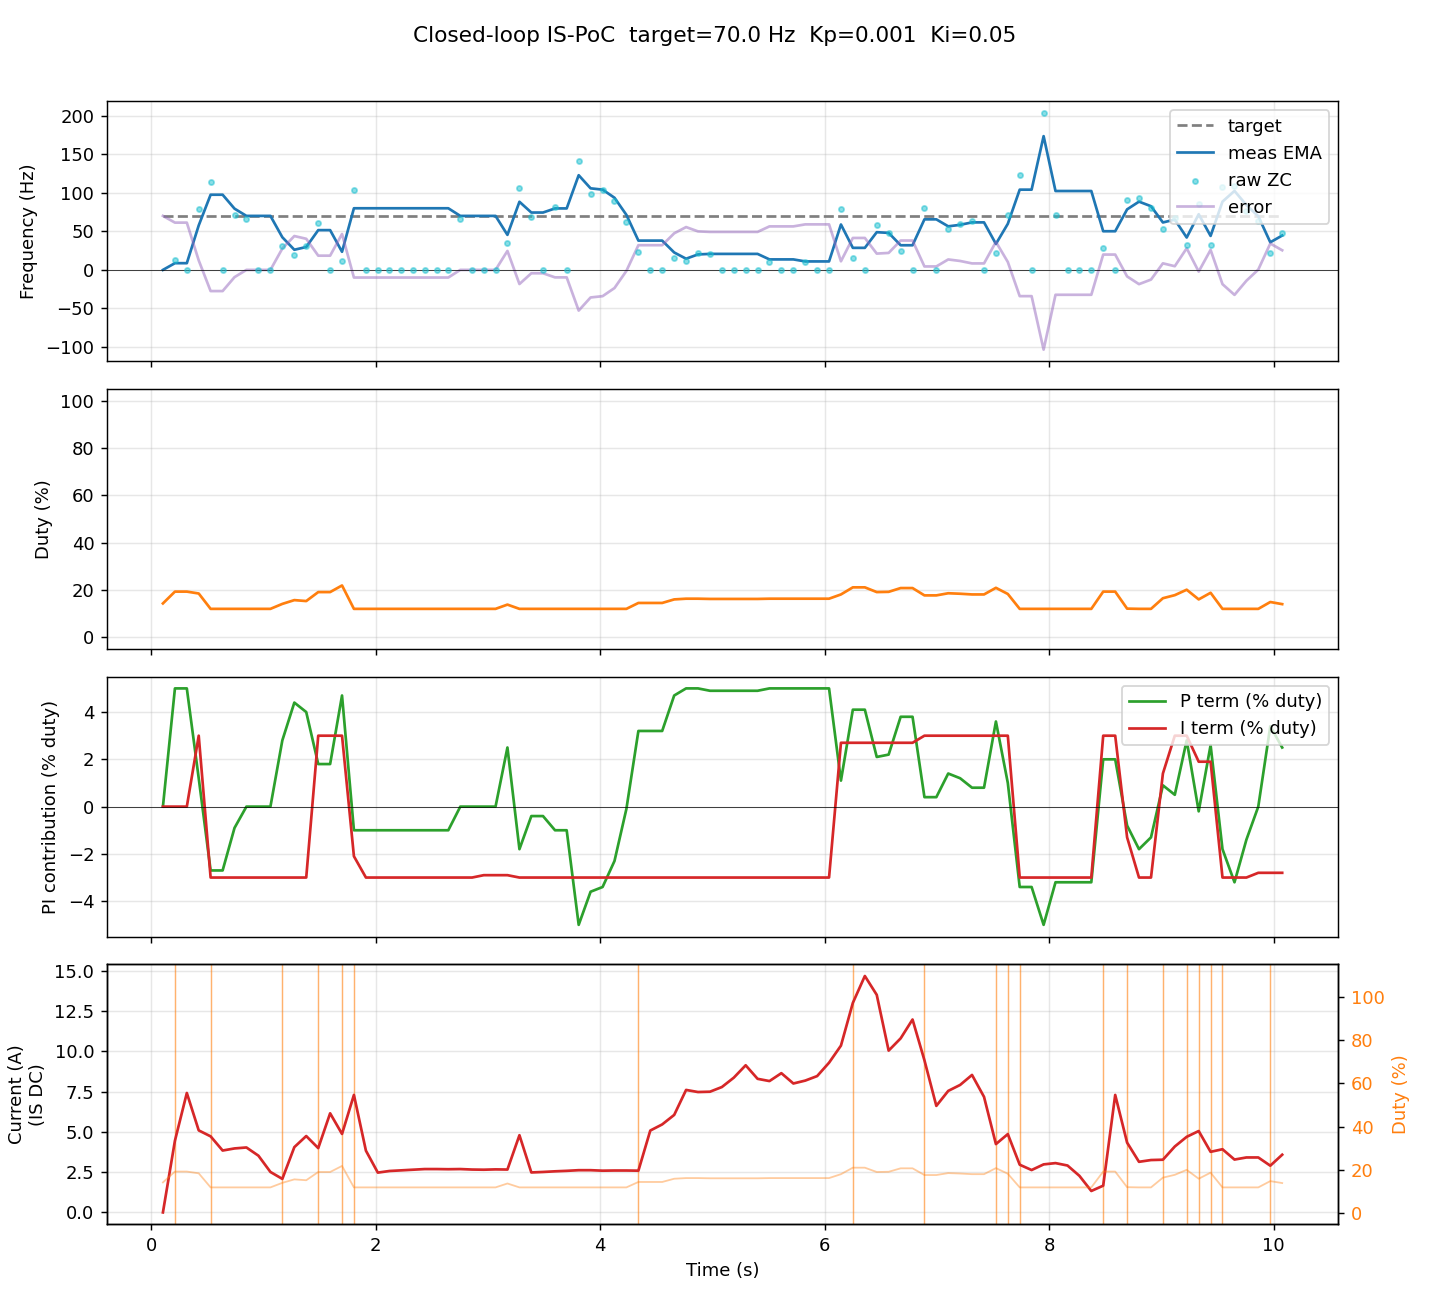
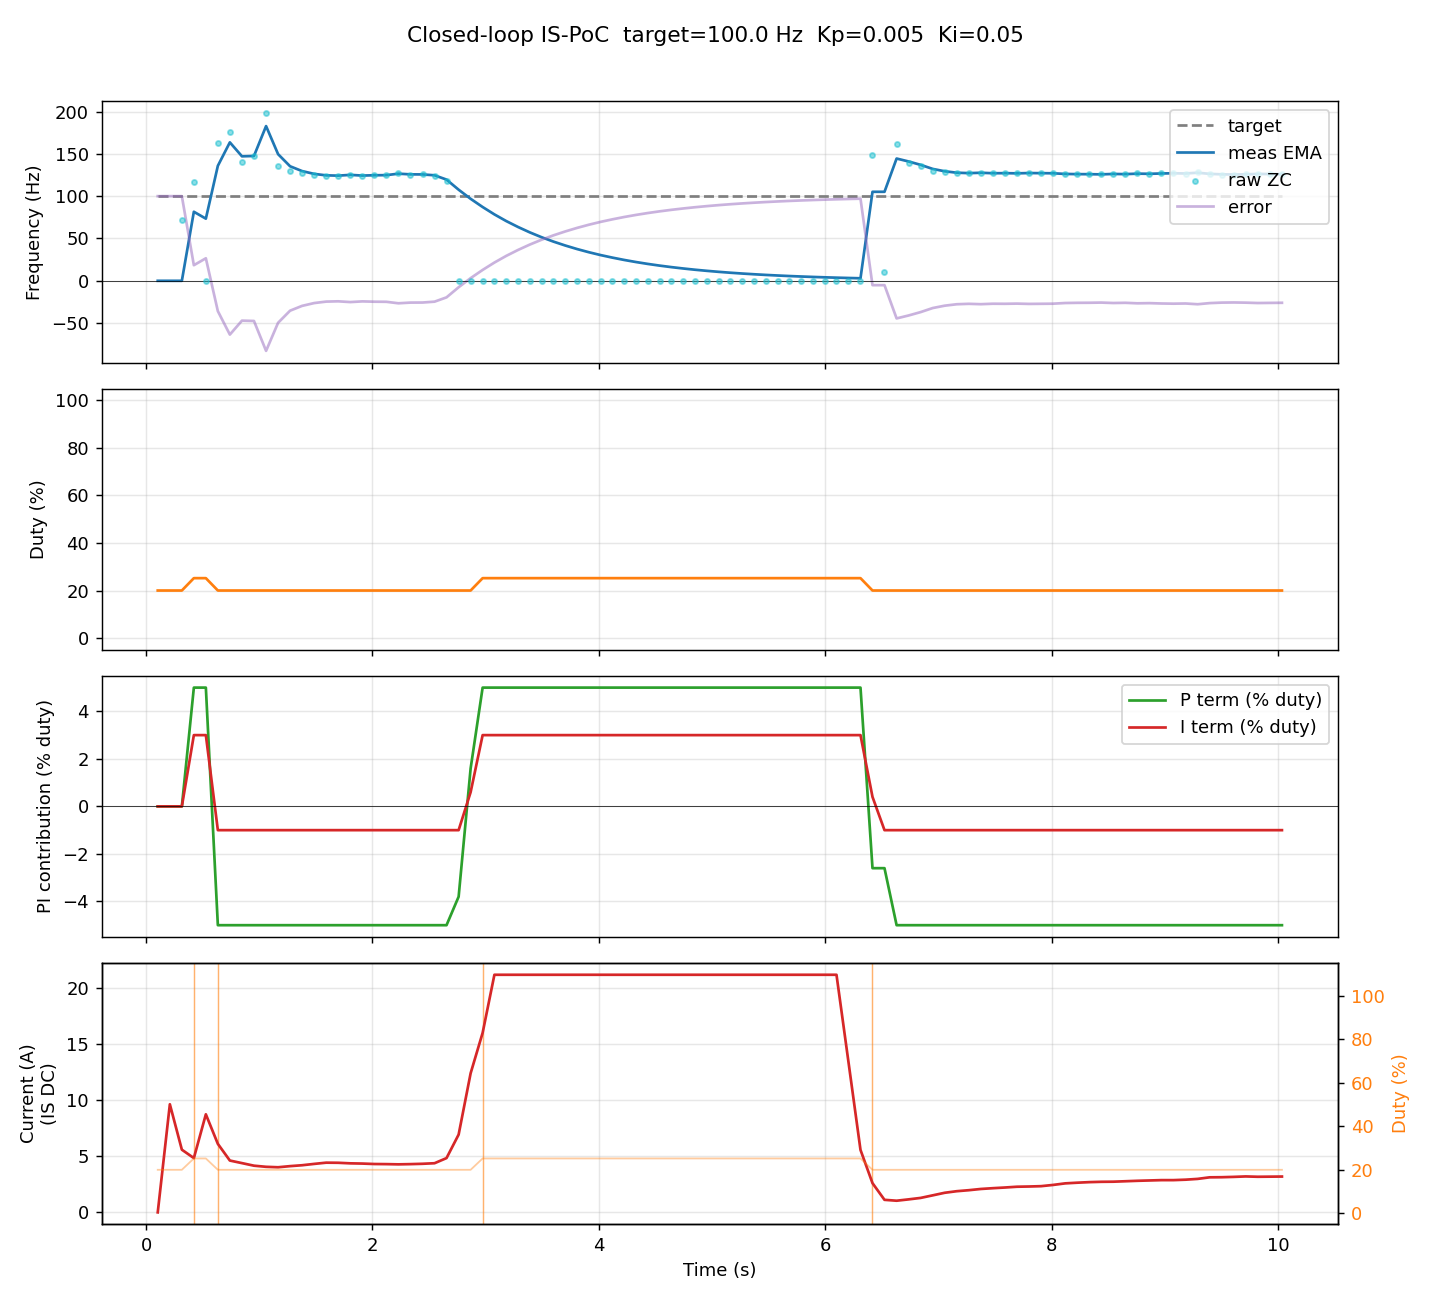
fix: update stiction floor default to 20% and adjust scaling for PID gains

diff --git a/firmware/src/poc/is_rpm_poc_main.cpp b/firmware/src/poc/is_rpm_poc_main.cpp
@@ -233,11 +233,38 @@ static void cmd_rpmrun(float target_hz, uint32_t duration_ms,
         float meas_raw = zc_freq_hz(s_buf + zc_skip,
                                     RPMRUN_N_SAMPLES - zc_skip,
                                     RPMRUN_SPS);
-        /* EMA update: skip update when raw==0 (missing measurement — motor
-         * stalled or ZC below noise floor; hold last known value). */
-        if (meas_raw > 0.0f) {
+        /* EMA update with two-sided validity gate.
+         *
+         * Low-side: at no-load high speed back-EMF ≈ Vbat → IS current → 0
+         * → noise-floor ZC returns spurious ≈20-80 Hz instead of 0.
+         * Reject raw below 80 Hz (below stiction operating point).
+         *
+         * High-side: when the wheel is stalled under load, full current flows
+         * at PWM switching rate → IS-pin shows large current ripple at PWM
+         * frequency → ZC detector can return 500-1200 Hz even though the
+         * wheel is stationary.  Cap at target_hz * 2.5 + 300 Hz; any reading
+         * above that is physically impossible at the commanded duty point.
+         *
+         * When raw == 0 (no ZC at all — wheel stopped or transient blanked):
+         * decay EMA by ×0.5 each cycle so that if the wheel truly stalls the
+         * controller sees meas → 0 and can raise duty to restart.  Without
+         * this decay the EMA stays frozen at the last high value and the
+         * integral winds negative, cutting motor power permanently. */
+        const float ZC_MIN_VALID_HZ = 80.0f;
+        const float ZC_MAX_VALID_HZ = target_hz * 2.5f + 300.0f;
+        if (meas_raw >= ZC_MIN_VALID_HZ && meas_raw <= ZC_MAX_VALID_HZ) {
             meas_ema = EMA_ALPHA * meas_raw + (1.0f - EMA_ALPHA) * meas_ema;
+        } else if (meas_raw == 0.0f) {
+            /* Wheel stopped / no ZC: decay slowly toward 0 so the controller
+             * can eventually recover if the wheel truly stalls.
+             * Factor 0.9 per cycle (100 ms) → half-life ≈ 660 ms (6-7 cycles).
+             * The previous 0.5 factor (half-life = 1 cycle) caused the EMA to
+             * collapse during normal transient-blanking (2 zero cycles after a
+             * duty step), making the controller think the wheel stopped every
+             * time it changed duty. */
+            meas_ema *= 0.9f;
         }
+        /* else: out-of-range noise spike — hold current EMA unchanged. */
         /* Use filtered value for control; expose both in telemetry. */
         float meas_hz = meas_ema;
 
@@ -269,13 +296,17 @@ static void cmd_rpmrun(float target_hz, uint32_t duration_ms,
         if (can_integrate && meas_hz > 50.0f) {
             integral += err * RPMRUN_DT_S;
         }
-        /* Clamp integral so its duty contribution stays within ±3 pp.
-         * FF is already accurate to ±8 Hz; the I term only needs to trim
-         * that small residual.  A ±15 pp clamp (previous value) caused a
-         * large limit cycle: I saturated high, overshot, then saturated low. */
-        float i_clamp = 0.03f / (ki + 1e-6f);
-        if (integral >  i_clamp) integral =  i_clamp;
-        if (integral < -i_clamp) integral = -i_clamp;
+        /* Asymmetric integral clamp: PI can add up to +3 pp duty to fight
+         * load, but can only subtract up to -1 pp below FF.  FF is already
+         * calibrated to within ±8 Hz; there is almost never a need to
+         * reduce duty significantly below FF.  A symmetric -3 pp clamp
+         * caused the motor to stall after stall-noise spiked the EMA high:
+         * I(-3%) + P(-5%) pulled duty to 9 %, below the real stiction
+         * threshold, and the motor could not restart for 700+ ms. */
+        float i_clamp_pos = 0.03f / (ki + 1e-6f);
+        float i_clamp_neg = 0.01f / (ki + 1e-6f);
+        if (integral >  i_clamp_pos) integral =  i_clamp_pos;
+        if (integral < -i_clamp_neg) integral = -i_clamp_neg;
         float p_term = kp * err;
         float i_term = ki * integral;
         /* When meas==0 the ZC has no measurement (motor not yet spinning or
@@ -478,12 +509,12 @@ void loop(void)
     }
 
     if (line.startsWith("RPMRUN ")) {
-        /* "RPMRUN <target_hz> <duration_ms> [kp_x1000 ki_x1000 [stiction_x100 [ff_slope_x100 ff_dead_x10]]]" */
+        /* "RPMRUN <target_hz> <duration_ms> [kp_x1000000 ki_x1000000 [stiction_x100 [ff_slope_x100 ff_dead_x10]]]" */
         String rest = line.substring(7);
         float target_hz = 10.0f;
         uint32_t duration_ms = 10000;
-        int kp_mil      = 2;    /* default Kp = 0.002 — small correction on top of FF */
-        int ki_mil      = 10;   /* default Ki = 0.010 */
+        int kp_mil      = 2000;   /* default Kp = 0.002 */
+        int ki_mil      = 10000;  /* default Ki = 0.010 */
         int stiction_pct = 12;  /* default stiction floor = 12% */
         int ff_slope_x100 = (int)(RPMRUN_FF_SLOPE_DEFAULT * 100.0f + 0.5f);  /* 1013 */
         int ff_dead_x10   = (int)(RPMRUN_FF_DEAD_DEFAULT  * 10.0f  + 0.5f);  /* 746  */
@@ -494,8 +525,8 @@ void loop(void)
         if (stiction_pct > 50)   stiction_pct = 50;
         if (ff_slope_x100 < 0)   ff_slope_x100 = 0;
         cmd_rpmrun(target_hz, duration_ms,
-                   (float)kp_mil      / 1000.0f,
-                   (float)ki_mil      / 1000.0f,
+                   (float)kp_mil      / 1000000.0f,
+                   (float)ki_mil      / 1000000.0f,
                    (float)stiction_pct / 100.0f,
                    (float)ff_slope_x100 / 100.0f,
                    (float)ff_dead_x10   / 10.0f);

diff --git a/scripts/is_poc_pid.py b/scripts/is_poc_pid.py
@@ -43,7 +43,7 @@ def main() -> int:
                         help="Proportional gain. Small — FF handles most of the duty.")
     parser.add_argument("--ki", type=float, default=0.010,
                         help="Integral gain. Loop dt is 0.1 s.")
-    parser.add_argument("--stiction", type=int, default=12,
+    parser.add_argument("--stiction", type=int, default=20,
                         help="Stiction floor duty %% (0-50). "
                              "Duty snaps to this when in (0, floor). "
                              "Default 12 %% — enough to overcome BTS7960 dead-zone.")
@@ -64,8 +64,8 @@ def main() -> int:
     args.out.parent.mkdir(parents=True, exist_ok=True)
 
     duration_ms = int(args.duration * 1000)
-    kp_mil = int(round(args.kp * 1000))
-    ki_mil = int(round(args.ki * 1000))
+    kp_mil = int(round(args.kp * 1_000_000))
+    ki_mil = int(round(args.ki * 1_000_000))
 
     print(f"opening {args.port} @ {args.baud}")
     with serial.Serial(args.port, args.baud, timeout=2.0) as ser: